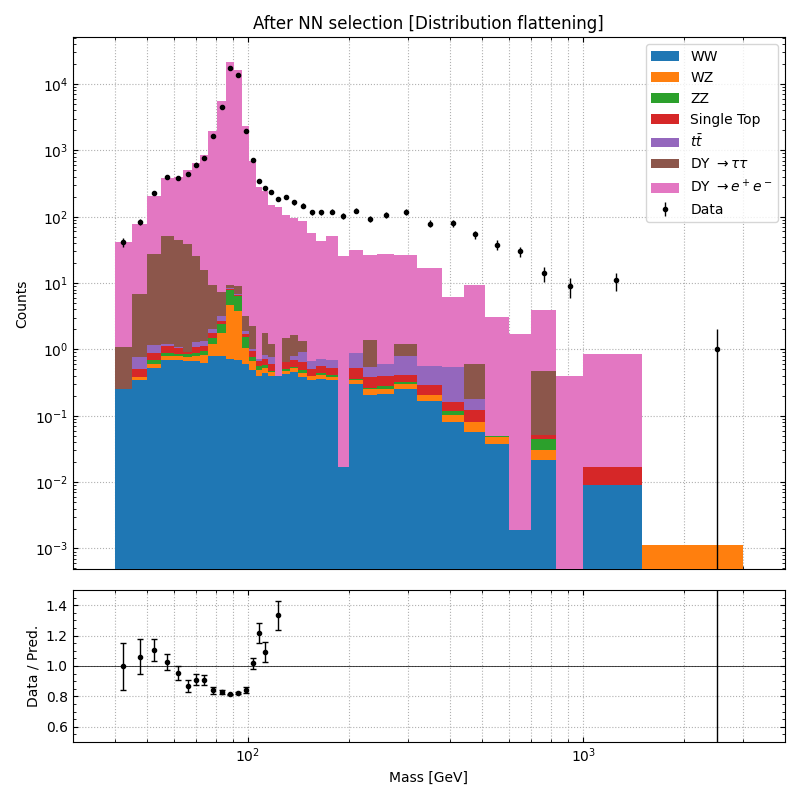
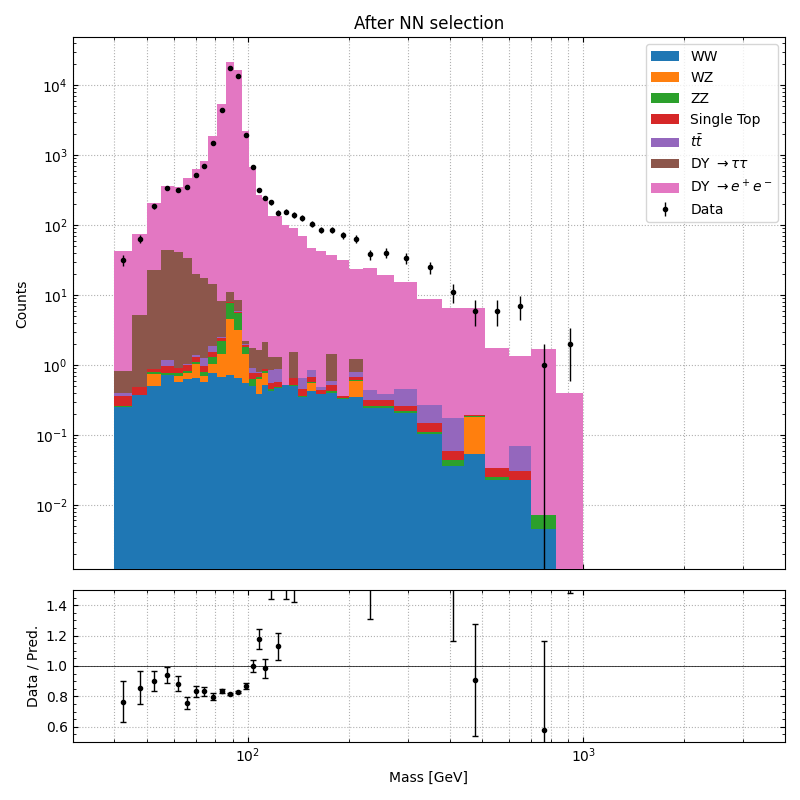
Add new results

diff --git a/results/results.md b/results/results.md
@@ -1,0 +1,169 @@
+# Results
+
+### 1. Initial plot before applying NN
+![First plot](stack_before_nn.png)
+
+### 2. Plots after applying NN
+
+![First plot](stack_after_nn_1.png)
+
+## Methods used:
+### 1. Mass flattening for signal data
+
+For each bin, the number of signal events was counted:
+
+$
+N_{\text{bin}}
+$
+
+and the training weight for each signal event was assigned as:
+
+$
+w = \frac{1}{\sqrt{N_{\text{bin}}}}
+$
+
+where:
+
+- $w$ = event training weight
+- $N_{\text{bin}}$ = number of signal events in the corresponding invariant mass bin
+
+### 2. No manipulations with kinematic variables
+
+### 3. Additional weights applied for QCD background
+
+QCD events with two reconstructed electrons are rare and are often caused by fake electrons originating from jets, photon conversions, or detector effects rather than genuine prompt electrons.
+
+Because these events are both rare and important for background rejection, additional training weights were applied to all QCD samples to make the neural network pay more attention to them during training.
+
+For all QCD samples (`qcd1`–`qcd8`), the sample weights were multiplied by a constant factor:
+$
+w_{\text{QCD}} = 10
+$
+
+### 4. Old NN, no photon feature inputs
+
+![Second plot](stack_after_nn_2.png)
+
+## Methods used:
+### 1. Mass flattening for signal data
+
+For each bin, the number of signal events was counted:
+
+$
+N_{\text{bin}}
+$
+
+and the training weight for each signal event was assigned as:
+
+$
+w = \frac{1}{\sqrt{N_{\text{bin}}}}
+$
+
+where:
+
+- $w$ = event training weight
+- $N_{\text{bin}}$ = number of signal events in the corresponding invariant mass bin
+
+### 2. Manipulations with kinematic variables
+
+Instead of using the raw transverse momentum values directly, the ratio between the leading and subleading electron transverse momenta was constructed:
+
+$
+R_{p_T} = \frac{p_{T,1}}{p_{T,2}}
+$
+
+and its logarithm was used as the training input:
+
+$
+\log\left(\frac{p_{T,1}}{p_{T,2}}\right)
+$
+
+where:
+
+- $p_{T,1}$ = transverse momentum of the leading electron
+- $p_{T,2}$ = transverse momentum of the subleading electron
+
+### 3. Additional weights applied for QCD background
+
+QCD events with two reconstructed electrons are rare and are often caused by fake electrons originating from jets, photon conversions, or detector effects rather than genuine prompt electrons.
+
+Because these events are both rare and important for background rejection, additional training weights were applied to all QCD samples to make the neural network pay more attention to them during training.
+
+For all QCD samples (`qcd1`–`qcd8`), the sample weights were multiplied by a constant factor:
+$
+w_{\text{QCD}} = 10
+$
+
+### 4. Old NN, no photon feature inputs
+
+
+![Third plot](stack_after_nn_3.png)
+
+### 1. Mass flattening for signal data
+
+For each bin, the number of signal events was counted:
+
+$
+N_{\text{bin}}
+$
+
+and the training weight for each signal event was assigned as:
+
+$
+w = \frac{1}{\sqrt{N_{\text{bin}}}}
+$
+
+where:
+
+- $w$ = event training weight
+- $N_{\text{bin}}$ = number of signal events in the corresponding invariant mass bin
+
+### 2. Manipulations with kinematic variables
+
+Instead of using the raw transverse momentum values directly, the ratio between the leading and subleading electron transverse momenta was constructed:
+
+$
+R_{p_T} = \frac{p_{T,1}}{p_{T,2}}
+$
+
+and its logarithm was used as the training input:
+
+$
+\log\left(\frac{p_{T,1}}{p_{T,2}}\right)
+$
+
+where:
+
+- $p_{T,1}$ = transverse momentum of the leading electron
+- $p_{T,2}$ = transverse momentum of the subleading electron
+
+### 3. Additional weights applied for QCD background
+
+QCD events with two reconstructed electrons are rare and are often caused by fake electrons originating from jets, photon conversions, or detector effects rather than genuine prompt electrons.
+
+Because these events are both rare and important for background rejection, additional training weights were applied to all QCD samples to make the neural network pay more attention to them during training.
+
+For all QCD samples (`qcd1`–`qcd8`), the sample weights were multiplied by a constant factor:
+$
+w_{\text{QCD}} = 20
+$
+
+### 4. Model of NN was changed for this plot, previous plots uses older NN model.
+
+Changed number of neurons in each layer, added dropout function. In addition photon features were added into this new NN, previously used NN was not trained with Photon feature inputs.
+
+![Fourth plot](stack_after_nn_4.png)
+
+This is same as third plot, but here for all QCD samples (`qcd1`–`qcd8`), the sample weights were multiplied by a constant factor:
+$
+w_{\text{QCD}} = 15
+$
+
+![Fifth plot](stack_after_nn_5.png)
+
+This is same as fourth plot, but here for all QCD samples (`qcd1`–`qcd8`), the sample weights were multiplied by a constant factor:
+$
+w_{\text{QCD}} = 10
+$
+
+Also, now the MC plotted in this data is not the same that was trained for NN.
